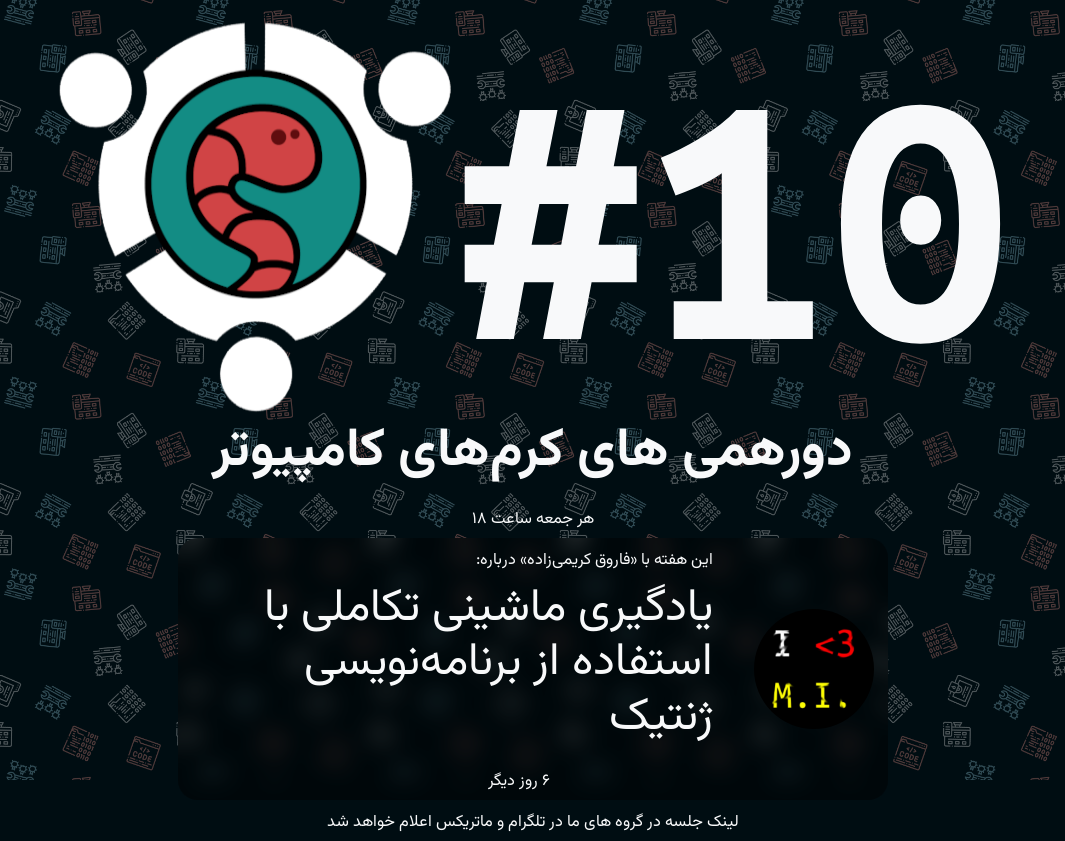
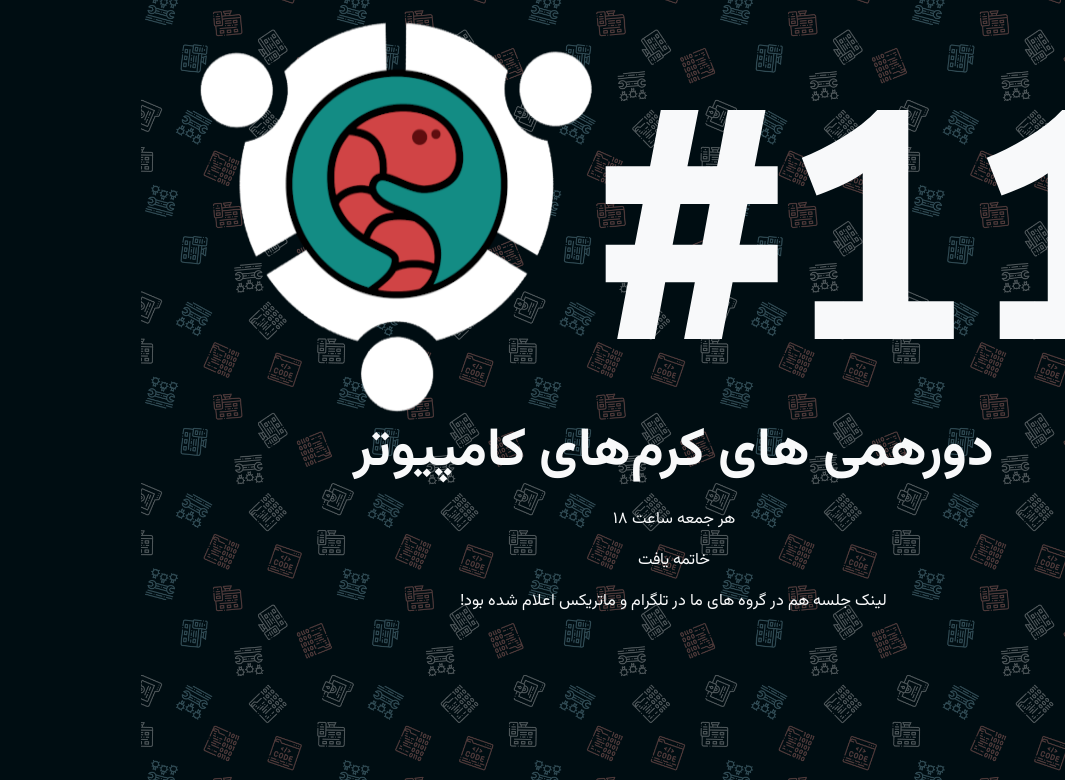
deploy: 4c55c945238e7f2b73bed5cc97f2efed300556c6

diff --git a/index.html b/index.html
@@ -4,9 +4,9 @@
 <head>
     <meta charset="UTF-8">
     <meta name="viewport" content="width=device-width, initial-scale=1.0">
-    <meta property="og:title" content="#10 - دورهمی کرمهای کامپیوتر" />
+    <meta property="og:title" content="#11 - دورهمی کرمهای کامپیوتر" />
     <meta name="og:description" content="دورهمی های کرمهای کامپیوتر - جمعه هر هفته ساعت شش
- این هفته با ارائه «فاروق کریمیزاده» درباره یادگیری ماشینی تکاملی با استفاده از برنامهنویسی ژنتیک">
+">
     <meta property="og:url" content="https://meet.pcworms.ir" />
     <meta property="og:image" content="https://meet.pcworms.ir/preview.png" />
     <title>دورهمی های کرم های کامپیوتر</title>
@@ -84,7 +84,7 @@
     <div class="container-fluid">
         <div class="row mt-2 text-center">
             <div class="col d-flex  align-items-center justify-content-center">
-                <span class="big-text d-inline-block">#10</span>
+                <span class="big-text d-inline-block">#11</span>
                 <img class="logo" src="./assets/meeting-logo.png" alt="">
             </div>
         </div>
@@ -94,19 +94,9 @@
                 <small>هر جمعه ساعت ۱۸</small>
             </div>
         </div>
-        <div class="row justify-content-center">
-            <div class="col-12 col-sm-10 col-md-8 p-2 subject-bg">
-                <div class=" row align-items-center">
-                    <div class="col-auto float-start text-center"><img src="assets&#x2F;avatars&#x2F;farooqkz.png" class="profile"></div>
-                    <div class="col">
-                        <small class="speaker d-block">
-                            این هفته با «فاروق کریمیزاده» درباره:
-                        </small>
-                        <h2 class="subject">یادگیری ماشینی تکاملی با استفاده از برنامهنویسی ژنتیک</h2>
-                        <div class="text-center">
-                            <small class="time" id="counter"></small>
-                        </div>
-                    </div>
+            <div class="row justify-content-center text-center">
+                <div class="text-center">
+                    <small id="counter"></small>
                 </div>
             </div>
             <div class="text-center">

diff --git a/post.html b/post.html
@@ -4,9 +4,9 @@
 <head>
     <meta charset="UTF-8">
     <meta name="viewport" content="width=device-width, initial-scale=1.0">
-    <meta property="og:title" content="#10 - دورهمی کرمهای کامپیوتر" />
+    <meta property="og:title" content="#11 - دورهمی کرمهای کامپیوتر" />
     <meta name="og:description" content="دورهمی های کرمهای کامپیوتر - جمعه هر هفته ساعت شش
- این هفته با ارائه «فاروق کریمیزاده» درباره یادگیری ماشینی تکاملی با استفاده از برنامهنویسی ژنتیک">
+">
     <meta property="og:url" content="https://meet.pcworms.ir" />
     <meta property="og:image" content="https://meet.pcworms.ir/preview.png" />
     <title>دورهمی های کرم های کامپیوتر</title>
@@ -77,7 +77,7 @@
     <div class="container-fluid">
         <div class="row mt-2 text-center">
             <div class="col d-flex  align-items-center justify-content-center">
-                <span class="big-text d-inline-block">#10</span>
+                <span class="big-text d-inline-block">#11</span>
                 <img class="logo" src="./assets/meeting-logo.png" alt="">
             </div>
         </div>
@@ -87,19 +87,9 @@
                 <small>هر جمعه ساعت ۱۸</small>
             </div>
         </div>
-        <div class="row justify-content-center">
-            <div class="col-12 col-sm-10 col-md-8 p-2 subject-bg">
-                <div class=" row align-items-center">
-                    <div class="col-auto float-start text-center"><img src="assets&#x2F;avatars&#x2F;farooqkz.png" class="profile"></div>
-                    <div class="col">
-                        <small class="speaker d-block">
-                            این هفته با «فاروق کریمیزاده» درباره:
-                        </small>
-                        <h2 class="subject">یادگیری ماشینی تکاملی با استفاده از برنامهنویسی ژنتیک</h2>
-                        <div class="text-center">
-                            <small class="time" id="counter"></small>
-                        </div>
-                    </div>
+            <div class="row justify-content-center text-center">
+                <div class="text-center">
+                    <small id="counter"></small>
                 </div>
             </div>
             <div class="text-center">

diff --git a/preview.html b/preview.html
@@ -21,16 +21,7 @@
         <div class="row mt-2 text-center">
             <div class="col d-flex  align-items-center justify-content-center">
                 <img class="logo" src="./assets/meeting-logo.png" alt="">
-                <span class="big-text d-inline-block">#10</span>
-            </div>
-        </div>
-        <div class="row justify-content-center">
-            <div class="col-12 col-sm-10 col-md-8 p-2"">
-                <div class=" row align-items-center">
-                <div class="col">
-                    <h1 class="subject" dir="rtl">یادگیری ماشینی تکاملی با استفاده از برنامهنویسی ژنتیک</h1>
-                </div>
-                <div class="col-auto float-start text-center"><img src="assets&#x2F;avatars&#x2F;farooqkz.png" class="profile"></div>
+                <span class="big-text d-inline-block">#11</span>
             </div>
         </div>
     </div>
